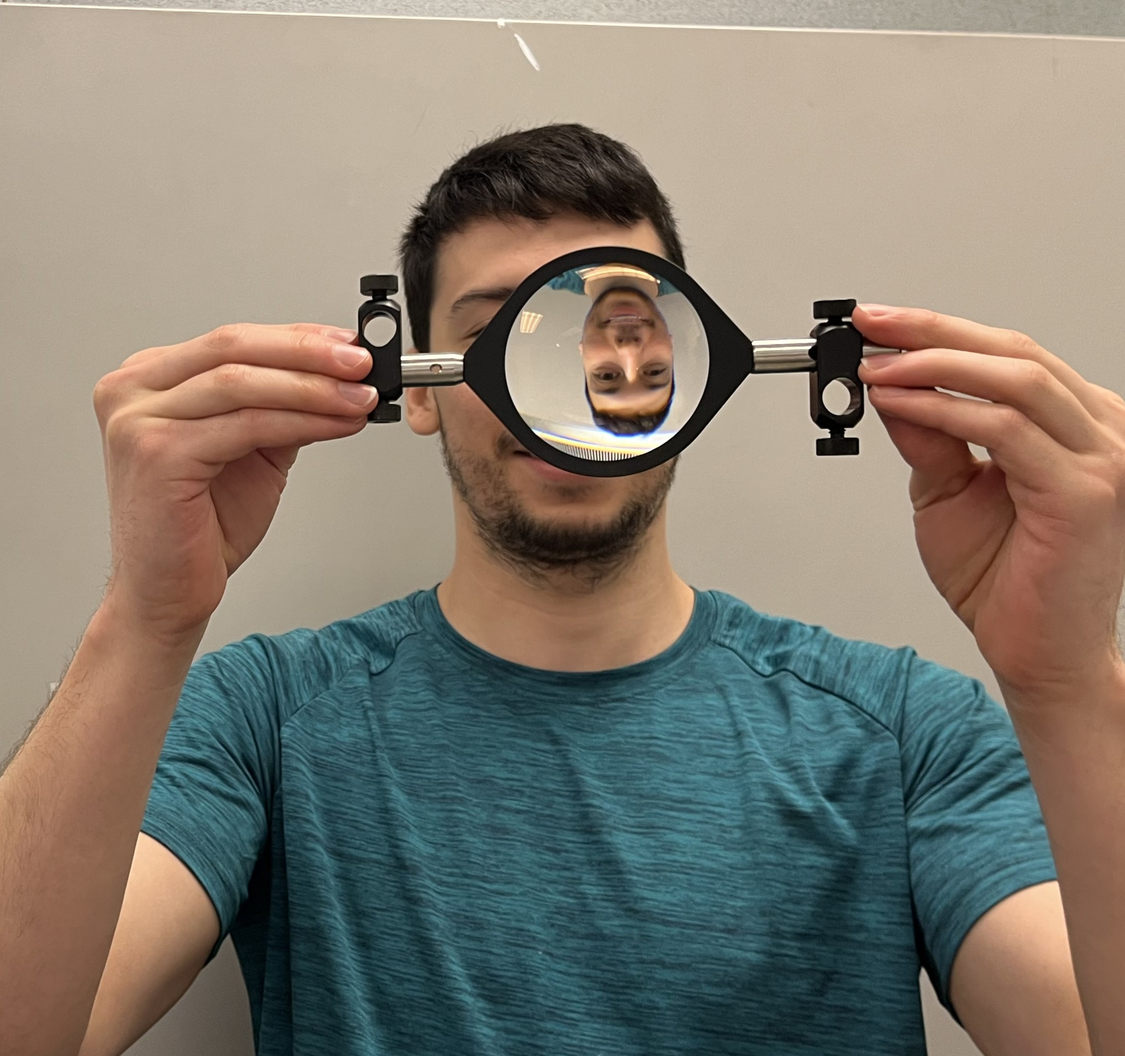
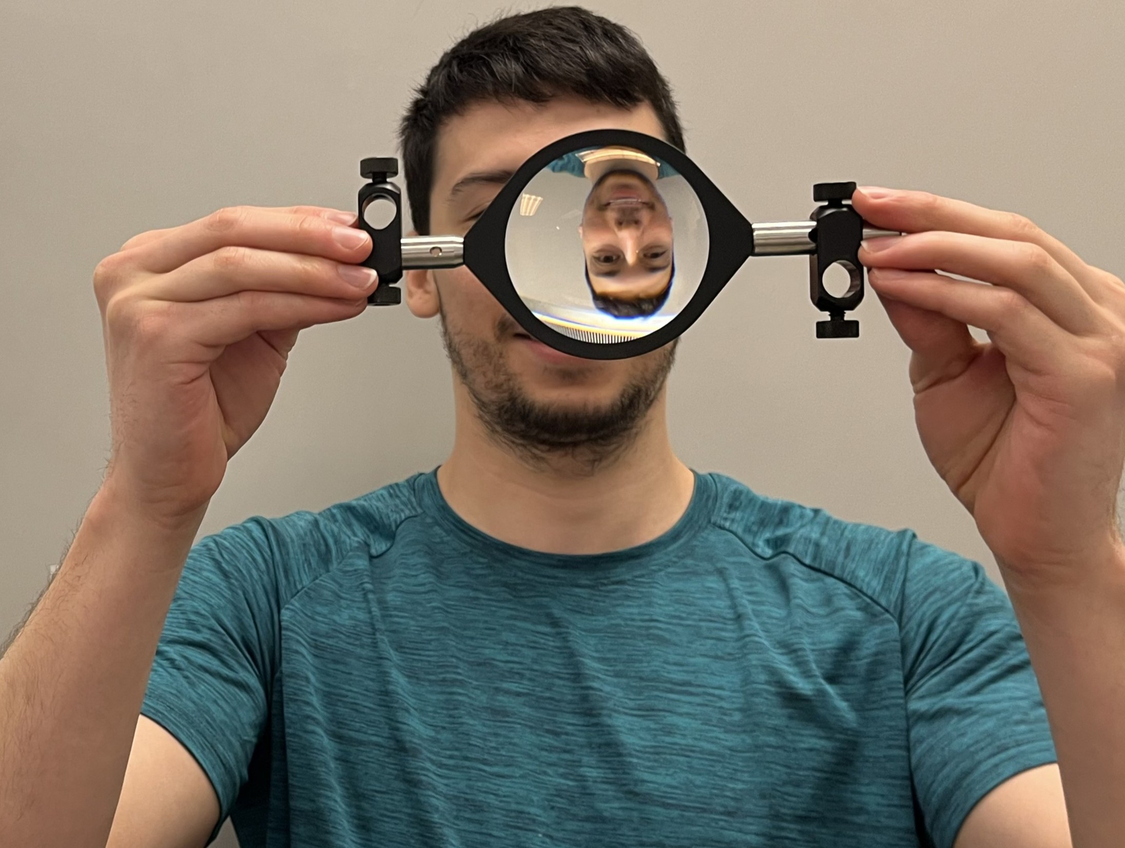
added image to header

diff --git a/header.html b/header.html
@@ -1,6 +1,7 @@
 <header class="navbar">
+  <img src="Inverted_headshot.jpg" width="80" height="60">
   <a href="index.html">Home</a>
-  <a href="nBody/nBodyWebpage.html">nBody Simulator</a>
+  <a href="nBody/nBodyWebpage.html">Ion Trap Simulation</a>
   <a href="ProceduralAnimation/procAnim.html">Snake Game</a>
   <a href="labVariables/labLivePlots.html">Lab Monitor</a>
 </header>

diff --git a/index.html b/index.html
@@ -6,9 +6,11 @@
     <script src="./loadHeader.js" defer></script>
   </head>
 <body>
-<h1>Helloooooo</h1>
-<img src="assets/NeutralFluorescence5_Zoom.jpg" alt="Neutral Yb fluorescence">
+<!-- <h1>Hello</h1> -->
 <a href="AlexBrinsonCV.pdf">CV</a>
+<img src="assets/NeutralFluorescence5_Zoom.jpg" alt="Neutral Yb fluorescence" width="500" height="500">
+
+
 
 </body>
 </html>
